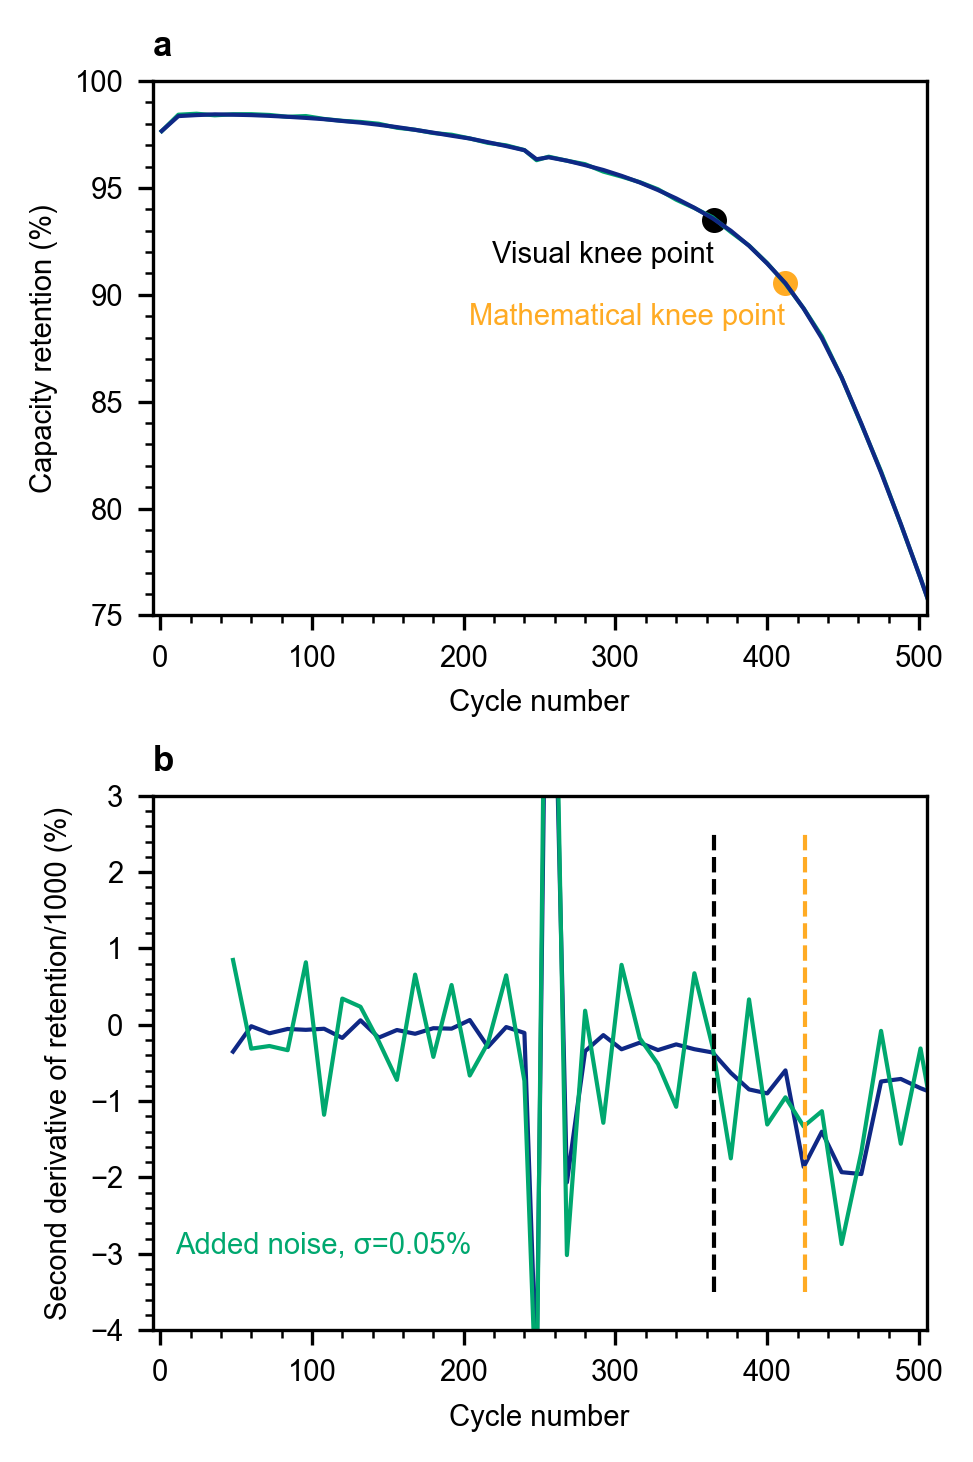
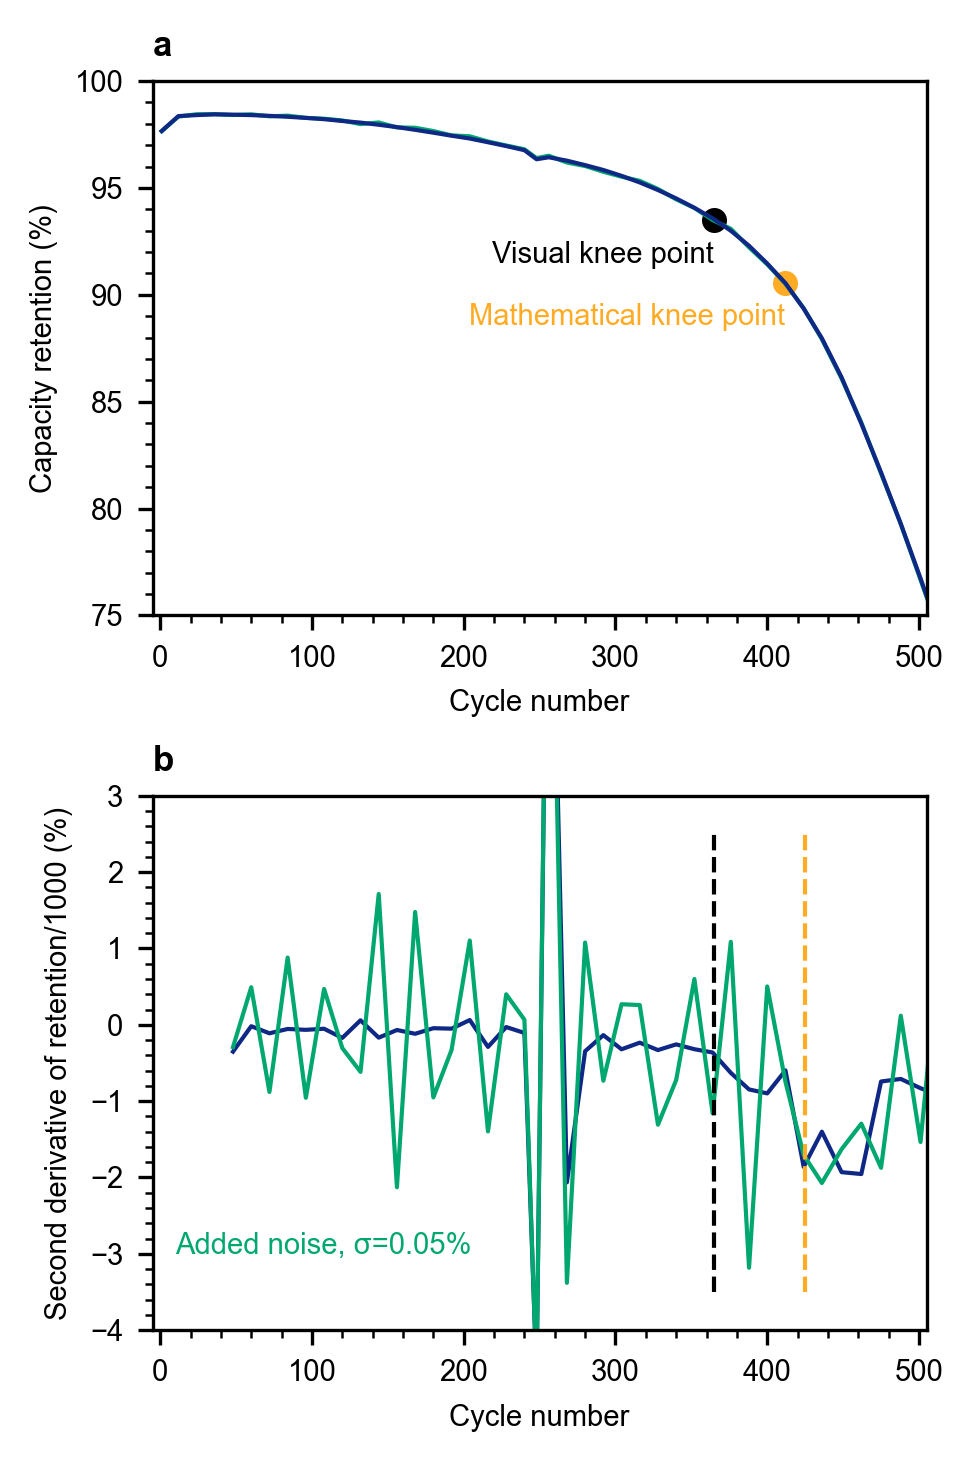
Fix inset

Changed region(s): [[0.2467, 0.554, 0.9558, 0.8926], [0.2158, 0.6464, 0.2467, 0.6772]]

diff --git a/code/figure_knee_identification_methods.py b/code/figure_knee_identification_methods.py
@@ -397,14 +397,14 @@ TK[4,0],TK[4,1] = knee_point_identification(ax[1,1],t,q,colours[4]);
 ax[1,2].plot(t,q,color=colours[5])
 # add in the knee estimates as a coloured scatter with vertical line for those 
 # incapable of zooming a pdf
-for j in range(5):
+for j in range(5):   
     ax[1,2].scatter(TK[j,0],TK[j,1],color=colours[j],marker='x')
     ax[1,2].plot(np.array([TK[j,0],TK[j,0]]),np.array([80,98]),
                 '--',color=colours[j])
     
 # add in a zoomed in version into the bottom right plot
 # new axes
-ax_in = ax[1,2].inset_axes([10,78,310,15], transform=ax[1,2].transData)
+ax_in = ax[1,2].inset_axes([10,80,310,12], transform=ax[1,2].transData)
 # capacity curve
 ax_in.plot(t,q,color=colours[5])
 # add in the knee estimates
@@ -414,7 +414,7 @@ for j in range(5):
                 '--',color=colours[j])
 ax_in.set_yticks([])
 ax_in.set_xlim([330, 410])
-ax_in.set_ylim([88, 94])
+ax_in.set_ylim([90, 96])
     
 # completely unnecessary if you are the kind of wizard who doesn't sanity 
 # check your results
